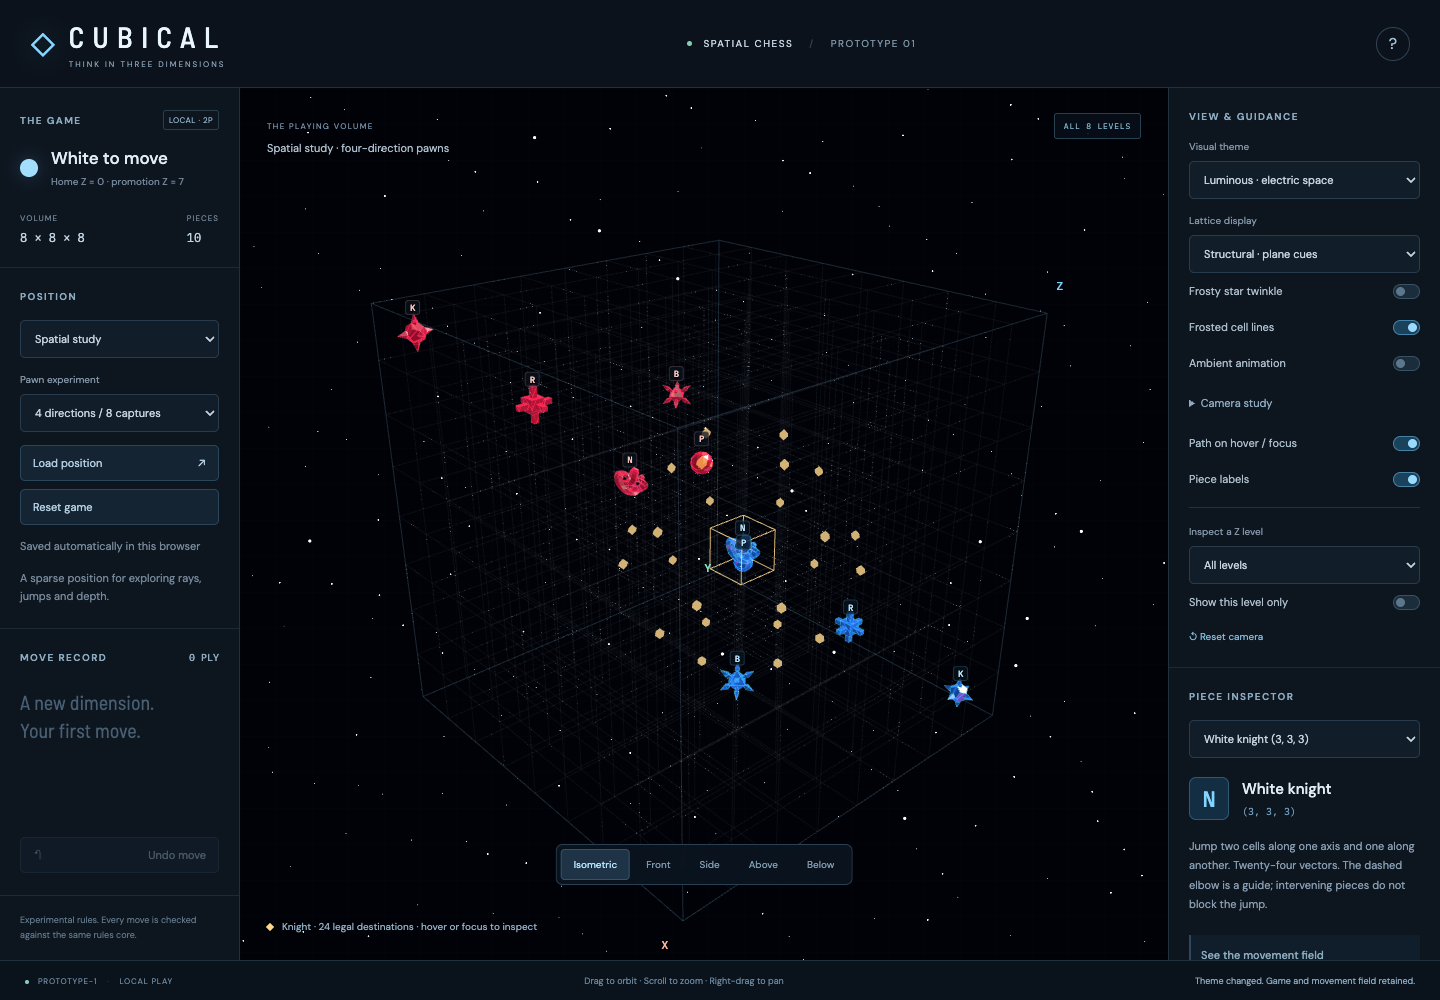
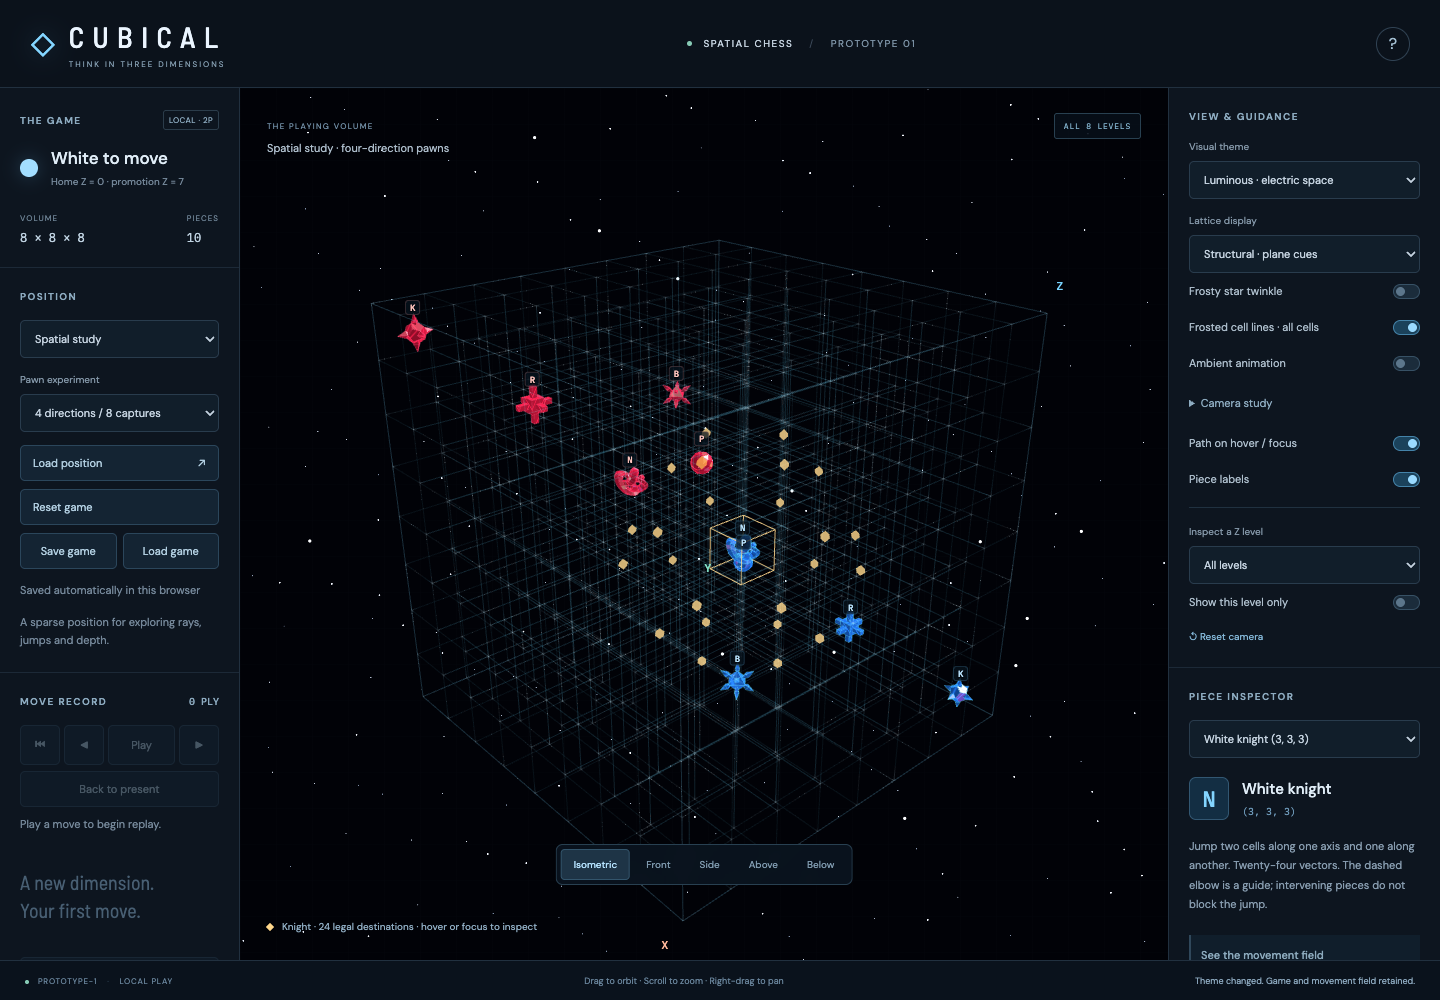
Seeing the cell lines more clearly

diff --git a/src/view/lattice.ts b/src/view/lattice.ts
@@ -20,9 +20,15 @@ export class LatticeView {
   private localCells: Cell[] = [];
   constructor() {
     const lines = (values: number[], opacity: number) => {
-      const points: number[] = [];
-      for (const a of values) for (const b of values) points.push(-4,a,b,4,a,b,a,-4,b,a,4,b,a,b,-4,a,b,4);
-      return new THREE.LineSegments(new THREE.BufferGeometry().setAttribute('position',new THREE.Float32BufferAttribute(points,3)),
+      const points: number[] = [], interior: number[] = [];
+      for (const a of values) for (const b of values) {
+        points.push(-4,a,b,4,a,b,a,-4,b,a,4,b,a,b,-4,a,b,4);
+        // A line is internal when both fixed coordinates lie inside the boundary.
+        // It crosses all eight cells on its axis, including their shared edges.
+        interior.push(...Array(6).fill(Math.abs(a)<4 && Math.abs(b)<4 ? 1 : 0));
+      }
+      return new THREE.LineSegments(new THREE.BufferGeometry().setAttribute('position',new THREE.Float32BufferAttribute(points,3))
+        .setAttribute('interiorLine',new THREE.Float32BufferAttribute(interior,1)),
         new THREE.LineBasicMaterial({ color: 0x6aadd6, transparent: true, opacity, depthWrite: false }));
     };
     this.grid = lines(Array.from({length:9},(_,i)=>i-4),0.075);
@@ -31,17 +37,25 @@ export class LatticeView {
     this.frostGrid = new THREE.LineSegments(this.grid.geometry, new THREE.ShaderMaterial({
       transparent: true, depthWrite: false, toneMapped: false,
       uniforms: { time: this.frostTime },
-      vertexShader: 'varying vec3 cellPoint; void main(){ cellPoint=position; gl_Position=projectionMatrix*modelViewMatrix*vec4(position,1.0); }',
+      vertexShader: 'attribute float interiorLine; varying float interior; varying vec3 cellPoint; void main(){ interior=interiorLine; cellPoint=position; gl_Position=projectionMatrix*modelViewMatrix*vec4(position,1.0); }',
       fragmentShader: `
-        uniform float time; varying vec3 cellPoint;
+        uniform float time; varying float interior; varying vec3 cellPoint;
         void main(){
           float grain = pow(0.5 + 0.5 * sin(dot(cellPoint, vec3(53.1, 71.7, 91.3))), 24.0);
           float phase = dot(floor(cellPoint * 3.0), vec3(2.7, 4.1, 1.9));
           float glitter = pow(0.5 + 0.5 * sin(phase + time * 1.1), 24.0);
-          gl_FragColor = vec4(mix(vec3(0.48, 0.68, 0.86), vec3(0.85, 0.94, 1.0), glitter), 0.042 + grain * (0.04 + glitter * 0.38));
+          // Every integer marks a cell junction, not just the two home planes.
+          float junction = pow(0.5 + 0.5 * cos(6.2831853 * (cellPoint.x + cellPoint.y + cellPoint.z)), 24.0);
+          // Keep continuous interior edges readable between sparse glitter events.
+          float base = mix(0.065, 0.145, interior);
+          // Sparse light traces give the cell network an electric wireframe character.
+          float trace = pow(0.5 + 0.5 * cos(dot(cellPoint, vec3(2.1)) - time * 0.8), 48.0);
+          vec3 electric = mix(vec3(0.12, 0.65, 0.95), vec3(0.76, 0.95, 1.0), max(glitter, junction * 0.65));
+          gl_FragColor = vec4(electric, base + junction * 0.065 + trace * 0.065 + grain * (0.04 + glitter * 0.28));
           #include <colorspace_fragment>
         }`,
     }));
+    this.frostGrid.name = 'lattice:frosted-cells';
     this.edge = new THREE.LineSegments(new THREE.EdgesGeometry(new THREE.BoxGeometry(8,8,8)), new THREE.LineBasicMaterial({color:0x79d4ff,transparent:true,opacity:0.42}));
     for (const [height,colour] of [[-4,0x79d4ff],[4,0xff8f89]]) {
       const grid = new THREE.GridHelper(8,8,colour,colour); grid.position.y=height;

diff --git a/tests/lattice.test.ts b/tests/lattice.test.ts
@@ -1,0 +1,41 @@
+import { expect, it } from 'vitest';
+import * as THREE from 'three';
+import { LatticeView } from '../src/view/lattice';
+
+it('frosted lines cover all twelve edges of every one of the 512 cells, including internal cells', () => {
+  const lattice = new LatticeView();
+  lattice.setMode('structural');
+  lattice.setFrosted(true);
+  const frost = lattice.root.getObjectByName('lattice:frosted-cells') as THREE.LineSegments;
+  expect(frost.visible).toBe(true);
+  const positions = frost.geometry.getAttribute('position');
+  const interior = frost.geometry.getAttribute('interiorLine');
+  const edges = new Set<string>();
+  const key = (a: number[], b: number[]) => [a.join(','), b.join(',')].sort().join('|');
+  let internalEdges = 0;
+  for (let i = 0; i < positions.count; i += 2) {
+    const a = [positions.getX(i), positions.getY(i), positions.getZ(i)];
+    const b = [positions.getX(i + 1), positions.getY(i + 1), positions.getZ(i + 1)];
+    const axis = a.findIndex((value, j) => value !== b[j]);
+    for (let step = 0; step < 8; step++) {
+      const from = [...a], to = [...a];
+      from[axis] += step; to[axis] += step + 1;
+      edges.add(key(from, to));
+      if (interior.getX(i) === 1) internalEdges++;
+    }
+  }
+  expect(edges.size).toBe(1944); // Shared edges are drawn once, not once per adjacent cell.
+  expect(internalEdges).toBe(1176);
+  for (let x = -4; x < 4; x++) for (let y = -4; y < 4; y++) for (let z = -4; z < 4; z++) {
+    for (let axis = 0; axis < 3; axis++) for (const sideA of [0, 1]) for (const sideB of [0, 1]) {
+      const from = [x, y, z];
+      from[(axis + 1) % 3] += sideA; from[(axis + 2) % 3] += sideB;
+      const to = [...from]; to[axis]++;
+      expect(edges.has(key(from, to))).toBe(true);
+    }
+  }
+  lattice.setFrosted(false);
+  expect(frost.visible).toBe(false);
+  expect(lattice.metrics().mode).toBe('structural');
+  lattice.dispose();
+});

diff --git a/src/main.ts b/src/main.ts
@@ -63,7 +63,7 @@ app.innerHTML = `
           <p class="muted small">Compare internal facets with cell inclusions. An intentionally intense study. Toggle components to compare; orbit to catch the light.</p>
         </fieldset>
         <div id="luminous-options" hidden><label class="toggle"><span>Frosty star twinkle</span><input type="checkbox" id="star-twinkle" /><span class="switch"></span></label>
-          <label class="toggle"><span>Frosted cell lines</span><input type="checkbox" id="frosted-cells" /><span class="switch"></span></label></div>
+          <label class="toggle"><span title="All 512 cells, including interior edges">Frosted cell lines · all cells</span><input type="checkbox" id="frosted-cells" /><span class="switch"></span></label></div>
         <label class="toggle"><span>Ambient animation</span><input type="checkbox" id="ambient-effects" checked /><span class="switch"></span></label>
         <details id="camera-study"><summary>Camera study</summary><div class="director-actions"><button id="focus-piece" class="secondary-button" disabled>Focus selected</button><button id="orbit-piece" class="secondary-button" disabled>Inspect orbit</button></div>
         <button id="close-piece" class="text-button" disabled>Close inspection</button>

diff --git a/README.md b/README.md
@@ -48,7 +48,7 @@ The default renderer draws on changes and during camera/move animation. Destinat
 
 **Diagnostic · clean lattice** remains the default. Choose **Luminous · electric space** for sapphire/cyan and ruby/red faceted pieces with localized electric light and scintillation against a near-black, sparse starfield. Gold legal destinations and amber captures keep their common styling. The board hangs inside a surrounding star sphere; **Frosty star twinkle** adds icy, independently twinkling highlights. This switch starts off and is remembered across theme changes within the page. Ambient animation and reduced-motion settings freeze the twinkle.
 
-**Lattice display** is independent of theme: **Full** retains the analytical grid, **Structural** reduces it to structural plane cues, and **Adaptive** strengthens local cell context around selected pieces, legal destinations and inspected paths. Switching themes preserves that setting. In Luminous, **Frosted cell lines** temporarily shows every cell boundary with faint icy glitter; switching it off restores the chosen lattice mode. Turn off **Ambient animation** for static rendering.
+**Lattice display** is independent of theme: **Full** retains the analytical grid, **Structural** reduces it to structural plane cues, and **Adaptive** strengthens local cell context around selected pieces, legal destinations and inspected paths. Switching themes preserves that setting. In Luminous, **Frosted cell lines** temporarily shows the edges of all 512 cubical cells, including the complete interior, as a fine electric-cyan wireframe, with icy glitter, subtle junction accents and sparse travelling light traces; switching it off restores the chosen lattice mode. Turn off **Ambient animation** for static rendering.
 
 Open **Camera study** for **Focus selected**, **Inspect orbit** or **Close inspection**. The close orbit can enter the volume to inspect a piece. Pointer down, wheel or keyboard input immediately returns control to you. Reduced-motion preferences are respected. Theme, lattice and camera changes do not alter the game or its save; these view settings are not persisted yet.
 
